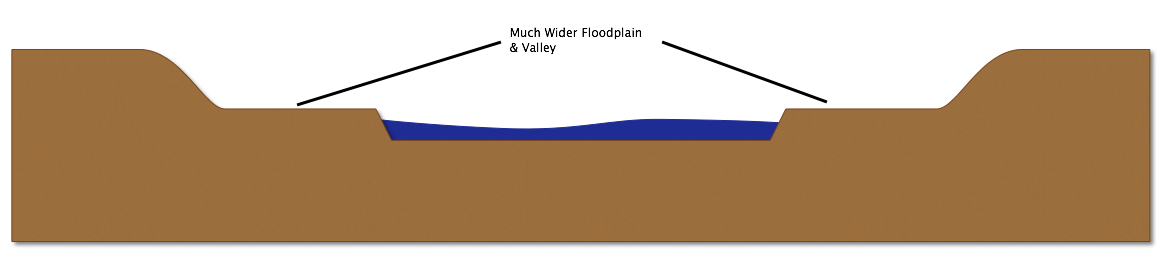
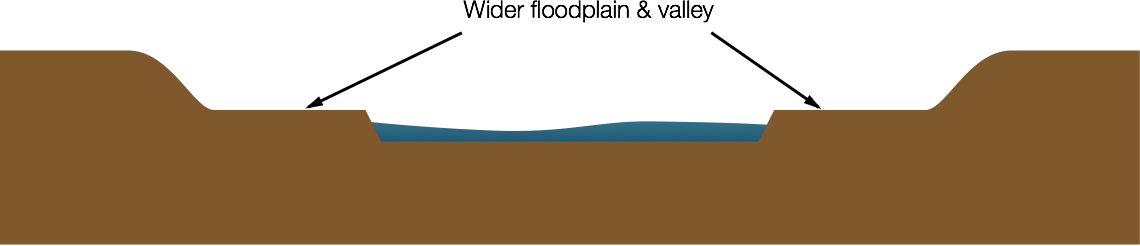
Converted channel cross section diagrams to SVGs

diff --git a/_posts/riversAndFlooding/2012-01-04-long-and-cross-profiles.md b/_posts/riversAndFlooding/2012-01-04-long-and-cross-profiles.md
@@ -101,9 +101,9 @@ The velocity at different points in a channel’s cross section can be illustrat
 
 [river-long-profile]: /Images/rivers/long-profile-diagram.png
 [river-graded-profile]: /Images/rivers/graded-profile-diagram.png
-[upper-course-x-section]: /Images/rivers/upper-course-cross-section.png
-[middle-course-x-section]: /Images/rivers/middle-course-cross-section.png
-[lower-course-x-section]: /Images/rivers/lower-course-cross-section.png
+[upper-course-x-section]: /Images/rivers/upper-course-cross-section.svg
+[middle-course-x-section]: /Images/rivers/middle-course-cross-section.svg
+[lower-course-x-section]: /Images/rivers/lower-course-cross-section.svg
 [channel-efficiency-example-diagram]: /Images/rivers/channel-efficiency-example-diagram.svg
 [channel-velocity-cross-section]: /Images/rivers/channel-velocity-cross-section.png
 
